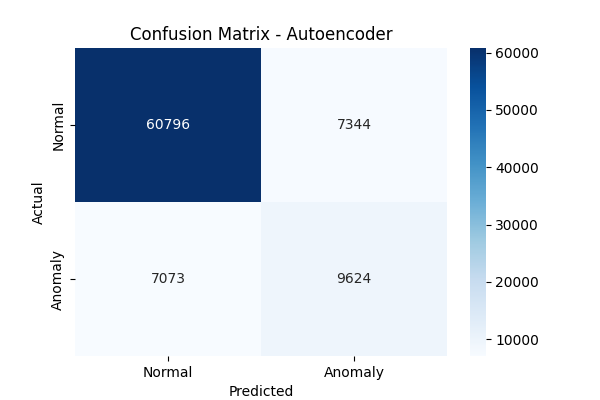
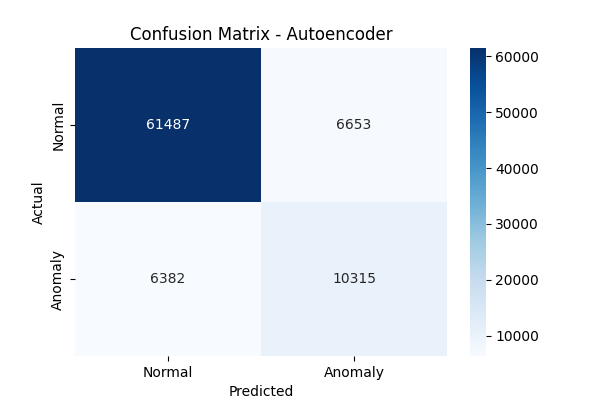
added a second encoder for the AE pipeline, working great

diff --git a/src/modeling.py b/src/modeling.py
@@ -143,7 +143,7 @@ def train_autoencoder(X_train, X_test, y_train):
     train_data = torch.FloatTensor(X_train_normal)
     train_loader = DataLoader(TensorDataset(train_data), batch_size=64, shuffle=True)
     
-    num_epochs = 10
+    num_epochs = 30
     model.train()
     for epoch in range(num_epochs):
         epoch_loss = 0
@@ -171,10 +171,56 @@ def train_autoencoder(X_train, X_test, y_train):
     
     return y_pred, mse
 
+def train_autoencoder_bad(X_train, X_test, y_train):
+    print("\nTraining Second Autoencoder (trained on Anomalous data)...")
+    # For this AE, we train ONLY on Anomalous (bad) data
+    X_train_bad = X_train[y_train == 1].values
+    
+    input_dim = X_train_bad.shape[1]
+    model = Autoencoder(input_dim)
+    criterion = nn.MSELoss()
+    optimizer = optim.Adam(model.parameters(), lr=0.001)
+    
+    train_data = torch.FloatTensor(X_train_bad)
+    train_loader = DataLoader(TensorDataset(train_data), batch_size=64, shuffle=True)
+    
+    num_epochs = 10
+    model.train()
+    for epoch in range(num_epochs):
+        epoch_loss = 0
+        for data in train_loader:
+            optimizer.zero_grad()
+            output = model(data[0])
+            loss = criterion(output, data[0])
+            loss.backward()
+            optimizer.step()
+            epoch_loss += loss.item()
+        if (epoch+1) % 2 == 0:
+            print(f"Epoch [{epoch+1}/{num_epochs}], Loss: {epoch_loss/len(train_loader):.6f}")
+            
+    # Evaluation
+    model.eval()
+    with torch.no_grad():
+        test_data = torch.FloatTensor(X_test.values)
+        test_output = model(test_data)
+        # Reconstruction error as anomaly score
+        mse = nn.functional.mse_loss(test_output, test_data, reduction='none').mean(dim=1).numpy()
+    
+    # Threshold selection: Since it's trained on Anomalies, LOW error means Anomaly.
+    # We want to flag samples that look like the 'bad' data.
+    # If we assume ~20% of data is anomalous, we take the 20% with LOWEST error.
+    threshold = np.percentile(mse, 20) 
+    y_pred = (mse < threshold).astype(int)
+    
+    # For AUC calculation, y_scores should be higher for anomalies.
+    # Since low MSE = anomaly here, we can use 1/MSE or -MSE.
+    # We use -mse so that lower mse (anomaly) results in a higher score.
+    return y_pred, -mse
+
 if __name__ == "__main__":
     parser = argparse.ArgumentParser(description="Run Anomaly Detection Models")
-    parser.add_argument("--model", type=str, choices=["if", "ocsvm", "lof", "ae", "all"], default="all",
-                        help="Model to run: if (Isolation Forest), ocsvm (One-Class SVM), lof (LOF), ae (Autoencoder), or all")
+    parser.add_argument("--model", type=str, choices=["if", "ocsvm", "lof", "ae", "ae2", "all"], default="all",
+                        help="Model to run: if (Isolation Forest), ocsvm (One-Class SVM), lof (LOF), ae (Autoencoder), ae2 (Ensemble Primary+Secondary AE), or all")
     args = parser.parse_args()
 
     X_train, X_val, X_test, y_train, y_val, y_test = load_data()
@@ -196,10 +242,30 @@ if __name__ == "__main__":
         y_pred_lof, y_scores_lof = train_lof(X_train, X_test)
         results.append(evaluate_model("Local Outlier Factor", y_test, y_pred_lof, y_scores_lof))
     
-    if args.model in ["ae", "all"]:
-        # 4. Autoencoder
+    # Autoencoders section (ae and ae2 can be dependent)
+    y_pred_ae, y_scores_ae = None, None
+    y_pred_ae2, y_scores_ae2 = None, None
+    
+    if args.model in ["ae", "ae2", "all"]:
+        # 4. Primary Autoencoder
         y_pred_ae, y_scores_ae = train_autoencoder(X_train, X_test, y_train)
         results.append(evaluate_model("Autoencoder", y_test, y_pred_ae, y_scores_ae))
+    
+    if args.model in ["ae2", "all"]:
+        # 5. Second Autoencoder (Bad Traffic)
+        y_pred_ae2, y_scores_ae2 = train_autoencoder_bad(X_train, X_test, y_train)
+        results.append(evaluate_model("Second Autoencoder", y_test, y_pred_ae2, y_scores_ae2))
+        
+        # 6. Ensemble (Primary + Second)
+        print("\nCreating Ensemble Autoencoder (In conjunction)...")
+        # Logical OR for predictions to reduce False Negatives
+        y_pred_ensemble = (y_pred_ae | y_pred_ae2).astype(int)
+        
+        # Combined score for AUC: Sum of normalized scores (simple sum since they are same scale)
+        # Note: y_scores_ae2 is already -mse, which is higher for anomalies
+        y_scores_ensemble = y_scores_ae + y_scores_ae2
+        
+        results.append(evaluate_model("Ensemble Autoencoder", y_test, y_pred_ensemble, y_scores_ensemble))
     
     # Summary Table
     if results:

diff --git a/todo.md b/todo.md
@@ -1,0 +1,2 @@
+Scn encoder (trained on bad traffic data) to double check the results (to not have only one model checking for false negatives).
+